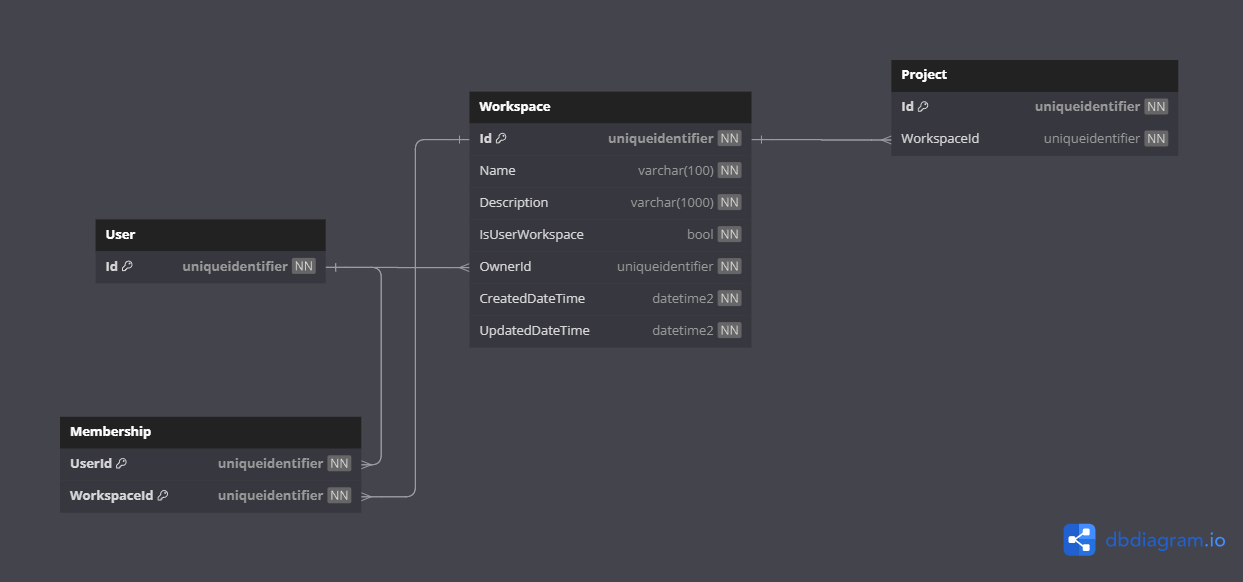
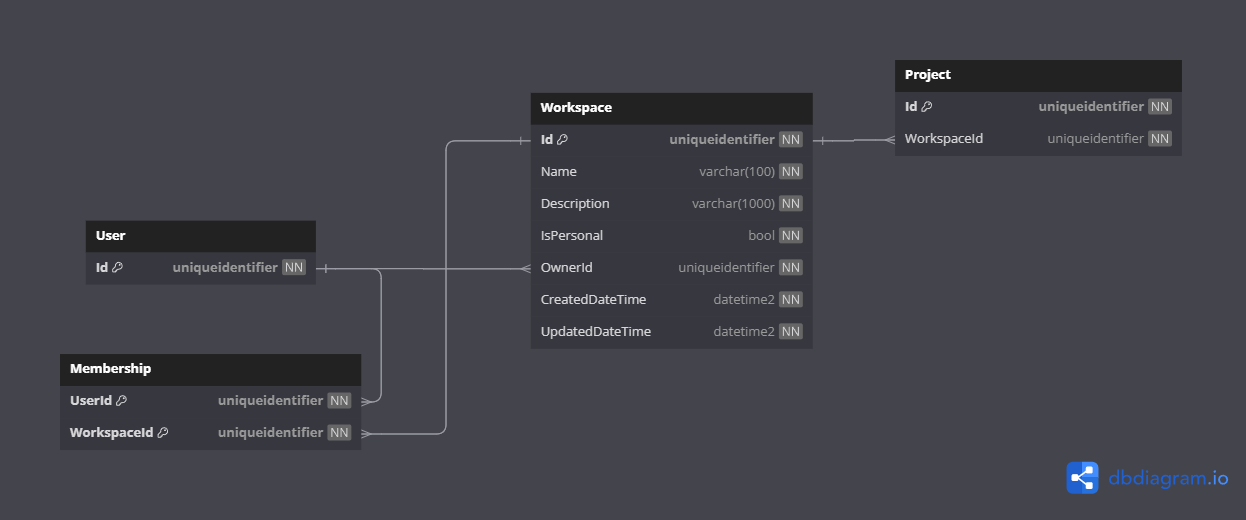
#39 Domain - Workspace Aggregate - Rename IsUserWorkspace ValueObject to IsPersonal

diff --git a/src/ConsiliumTempus.Domain/Workspace/WorkspaceAggregate.cs b/src/ConsiliumTempus.Domain/Workspace/WorkspaceAggregate.cs
@@ -20,14 +20,14 @@ public sealed class WorkspaceAggregate : AggregateRoot<WorkspaceId, Guid>
         Name name,
         Description description,
         UserAggregate owner,
-        IsUserWorkspace isUserWorkspace,
+        IsPersonal isPersonal,
         DateTime createdDateTime,
         DateTime updatedDateTime) : base(id)
     {
         Name = name;
         Description = description;
         Owner = owner;
-        IsUserWorkspace = isUserWorkspace;
+        IsPersonal = isPersonal;
         CreatedDateTime = createdDateTime;
         UpdatedDateTime = updatedDateTime;
     }
@@ -37,7 +37,7 @@ public sealed class WorkspaceAggregate : AggregateRoot<WorkspaceId, Guid>
 
     public Name Name { get; private set; } = default!;
     public Description Description { get; private set; } = default!;
-    public IsUserWorkspace IsUserWorkspace { get; private set; } = default!;
+    public IsPersonal IsPersonal { get; private set; } = default!;
     public UserAggregate Owner { get; private set; } = default!;
     public DateTime CreatedDateTime { get; private set; }
     public DateTime UpdatedDateTime { get; private set; }
@@ -48,14 +48,14 @@ public sealed class WorkspaceAggregate : AggregateRoot<WorkspaceId, Guid>
         Name name,
         Description description,
         UserAggregate owner,
-        IsUserWorkspace isUserWorkspace)
+        IsPersonal isPersonal)
     {
         var workspace = new WorkspaceAggregate(
             WorkspaceId.CreateUnique(),
             name,
             description,
             owner,
-            isUserWorkspace,
+            isPersonal,
             DateTime.UtcNow,
             DateTime.UtcNow);
 
@@ -84,9 +84,9 @@ public sealed class WorkspaceAggregate : AggregateRoot<WorkspaceId, Guid>
         Owner = owner;
     }
     
-    public void UpdateIsUserWorkspace(IsUserWorkspace isUserWorkspace)
+    public void UpdateIsPersonal(IsPersonal isPersonal)
     {
-        IsUserWorkspace = isUserWorkspace;
+        IsPersonal = isPersonal;
     }
 
 }

diff --git a/src/ConsiliumTempus.Infrastructure/Migrations/20240409191902_InitialCreate.Designer.cs b/src/ConsiliumTempus.Infrastructure/Migrations/20240409191902_InitialCreate.Designer.cs
@@ -12,7 +12,7 @@ using Microsoft.EntityFrameworkCore.Storage.ValueConversion;
 namespace ConsiliumTempus.Infrastructure.Migrations
 {
     [DbContext(typeof(ConsiliumTempusDbContext))]
-    [Migration("20240409130810_InitialCreate")]
+    [Migration("20240409191902_InitialCreate")]
     partial class InitialCreate
     {
         /// <inheritdoc />
@@ -985,14 +985,14 @@ namespace ConsiliumTempus.Infrastructure.Migrations
                         .OnDelete(DeleteBehavior.NoAction)
                         .IsRequired();
 
-                    b.OwnsOne("ConsiliumTempus.Domain.Workspace.ValueObjects.IsUserWorkspace", "IsUserWorkspace", b1 =>
+                    b.OwnsOne("ConsiliumTempus.Domain.Workspace.ValueObjects.IsPersonal", "IsPersonal", b1 =>
                         {
                             b1.Property<Guid>("WorkspaceAggregateId")
                                 .HasColumnType("uniqueidentifier");
 
                             b1.Property<bool>("Value")
                                 .HasColumnType("bit")
-                                .HasColumnName("IsUserWorkspace");
+                                .HasColumnName("IsPersonal");
 
                             b1.HasKey("WorkspaceAggregateId");
 
@@ -1043,7 +1043,7 @@ namespace ConsiliumTempus.Infrastructure.Migrations
                     b.Navigation("Description")
                         .IsRequired();
 
-                    b.Navigation("IsUserWorkspace")
+                    b.Navigation("IsPersonal")
                         .IsRequired();
 
                     b.Navigation("Name")

diff --git a/src/ConsiliumTempus.Infrastructure/Migrations/ConsiliumTempusDbContextModelSnapshot.cs b/src/ConsiliumTempus.Infrastructure/Migrations/ConsiliumTempusDbContextModelSnapshot.cs
@@ -982,14 +982,14 @@ namespace ConsiliumTempus.Infrastructure.Migrations
                         .OnDelete(DeleteBehavior.NoAction)
                         .IsRequired();
 
-                    b.OwnsOne("ConsiliumTempus.Domain.Workspace.ValueObjects.IsUserWorkspace", "IsUserWorkspace", b1 =>
+                    b.OwnsOne("ConsiliumTempus.Domain.Workspace.ValueObjects.IsPersonal", "IsPersonal", b1 =>
                         {
                             b1.Property<Guid>("WorkspaceAggregateId")
                                 .HasColumnType("uniqueidentifier");
 
                             b1.Property<bool>("Value")
                                 .HasColumnType("bit")
-                                .HasColumnName("IsUserWorkspace");
+                                .HasColumnName("IsPersonal");
 
                             b1.HasKey("WorkspaceAggregateId");
 
@@ -1040,7 +1040,7 @@ namespace ConsiliumTempus.Infrastructure.Migrations
                     b.Navigation("Description")
                         .IsRequired();
 
-                    b.Navigation("IsUserWorkspace")
+                    b.Navigation("IsPersonal")
                         .IsRequired();
 
                     b.Navigation("Name")

diff --git a/tests/Integration/ConsiliumTempus.Common.IntegrationTests/Workspace/WorkspaceFactory.cs b/tests/Integration/ConsiliumTempus.Common.IntegrationTests/Workspace/WorkspaceFactory.cs
@@ -12,7 +12,7 @@ public static class WorkspaceFactory
         UserAggregate owner,
         string name = Constants.Workspace.Name,
         string description = Constants.Workspace.Description,
-        bool isUserWorkspace = false,
+        bool isPersonal = false,
         DateTime? createdDateTime = null,
         DateTime? updatedDateTime = null)
     {
@@ -22,7 +22,7 @@ public static class WorkspaceFactory
         DomainFactory.SetProperty(ref workspace, nameof(workspace.Name), Name.Create(name));
         DomainFactory.SetProperty(ref workspace, nameof(workspace.Description), Description.Create(description));
         DomainFactory.SetProperty(ref workspace, nameof(workspace.Owner), owner);
-        DomainFactory.SetProperty(ref workspace, nameof(workspace.IsUserWorkspace), IsUserWorkspace.Create(isUserWorkspace));
+        DomainFactory.SetProperty(ref workspace, nameof(workspace.IsPersonal), IsPersonal.Create(isPersonal));
         DomainFactory.SetProperty(ref workspace, nameof(workspace.CreatedDateTime), createdDateTime ?? DateTime.UtcNow);
         DomainFactory.SetProperty(ref workspace, nameof(workspace.UpdatedDateTime), updatedDateTime ?? DateTime.UtcNow);
 

diff --git a/tests/Unit/ConsiliumTempus.Application.UnitTests/TestData/User/Events/UserDeletedHandlerData.cs b/tests/Unit/ConsiliumTempus.Application.UnitTests/TestData/User/Events/UserDeletedHandlerData.cs
@@ -22,14 +22,14 @@ internal static class UserDeletedHandlerData
             var workspaceWithMembers = WorkspaceFactory.Create(owner: user);
             workspaceWithMembers.AddUserMembership(MembershipFactory.Create());
             
-            var userWorkspaceWithMembers = WorkspaceFactory.Create(owner: user, isUserWorkspace: true);
+            var userWorkspaceWithMembers = WorkspaceFactory.Create(owner: user, isPersonal: true);
             userWorkspaceWithMembers.AddUserMembership(MembershipFactory.Create());
             
             var workspaces = new List<WorkspaceAggregate>
             {
                 WorkspaceFactory.Create(),
                 WorkspaceFactory.Create(owner: user),
-                WorkspaceFactory.Create(owner: user, isUserWorkspace: true),
+                WorkspaceFactory.Create(owner: user, isPersonal: true),
                 workspaceWithAdminMembers,
                 workspaceWithMembers,
                 userWorkspaceWithMembers

diff --git a/src/ConsiliumTempus.Infrastructure/Migrations/20240409191902_InitialCreate.cs b/src/ConsiliumTempus.Infrastructure/Migrations/20240409191902_InitialCreate.cs
@@ -88,7 +88,7 @@ namespace ConsiliumTempus.Infrastructure.Migrations
                     Id = table.Column<Guid>(type: "uniqueidentifier", nullable: false),
                     Name = table.Column<string>(type: "nvarchar(100)", maxLength: 100, nullable: false),
                     Description = table.Column<string>(type: "nvarchar(1000)", maxLength: 1000, nullable: false),
-                    IsUserWorkspace = table.Column<bool>(type: "bit", nullable: false),
+                    IsPersonal = table.Column<bool>(type: "bit", nullable: false),
                     OwnerId = table.Column<Guid>(type: "uniqueidentifier", nullable: false),
                     CreatedDateTime = table.Column<DateTime>(type: "datetime2", nullable: false),
                     UpdatedDateTime = table.Column<DateTime>(type: "datetime2", nullable: false)

diff --git a/src/ConsiliumTempus.Domain/Workspace/ValueObjects/IsPersonal.cs b/src/ConsiliumTempus.Domain/Workspace/ValueObjects/IsPersonal.cs
@@ -3,23 +3,23 @@ using ConsiliumTempus.Domain.Common.Models;
 
 namespace ConsiliumTempus.Domain.Workspace.ValueObjects;
 
-public class IsUserWorkspace : ValueObject
+public class IsPersonal : ValueObject
 {
     [SuppressMessage("ReSharper", "UnusedMember.Local")] // used by EF
-    private IsUserWorkspace()
+    private IsPersonal()
     {
     }
 
-    private IsUserWorkspace(bool value)
+    private IsPersonal(bool value)
     {
         Value = value;
     }
 
     public bool Value { get; }
 
-    public static IsUserWorkspace Create(bool value)
+    public static IsPersonal Create(bool value)
     {
-        return new IsUserWorkspace(value);
+        return new IsPersonal(value);
     }
 
     protected override IEnumerable<object> GetEqualityComponents()

diff --git a/tests/Integration/ConsiliumTempus.Api.IntegrationTests/TestUtils/Utils.User.cs b/tests/Integration/ConsiliumTempus.Api.IntegrationTests/TestUtils/Utils.User.cs
@@ -61,7 +61,7 @@ internal static partial class Utils
             user.Memberships[0].Workspace.Name.Value.Should().Be(Constants.Workspace.Name);
             user.Memberships[0].Workspace.Description.Value.Should().Be(Constants.Workspace.Description);
             user.Memberships[0].Workspace.Owner.Should().Be(user);
-            user.Memberships[0].Workspace.IsUserWorkspace.Value.Should().Be(true);
+            user.Memberships[0].Workspace.IsPersonal.Value.Should().Be(true);
             user.Memberships[0].Workspace.CreatedDateTime.Should().BeCloseTo(DateTime.UtcNow, TimeSpan.FromMinutes(1));
             user.Memberships[0].Workspace.UpdatedDateTime.Should().BeCloseTo(DateTime.UtcNow, TimeSpan.FromMinutes(1));
         }

diff --git a/tests/Unit/ConsiliumTempus.Common.UnitTests/Workspace/WorkspaceFactory.cs b/tests/Unit/ConsiliumTempus.Common.UnitTests/Workspace/WorkspaceFactory.cs
@@ -14,14 +14,14 @@ public static class WorkspaceFactory
         string name = Constants.Workspace.Name,
         string description = Constants.Workspace.Description,
         UserAggregate? owner = null,
-        bool isUserWorkspace = false)
+        bool isPersonal = false)
     {
         owner ??= UserFactory.Create();
         var workspace = WorkspaceAggregate.Create(
             Name.Create(name),
             Description.Create(description),
             owner,
-            IsUserWorkspace.Create(isUserWorkspace));
+            IsPersonal.Create(isPersonal));
         workspace.AddUserMembership(MembershipFactory.Create(owner, workspace));
         return workspace;
     }

diff --git a/tests/Unit/ConsiliumTempus.Application.UnitTests/TestUtils/Utils.Workspace.cs b/tests/Unit/ConsiliumTempus.Application.UnitTests/TestUtils/Utils.Workspace.cs
@@ -18,7 +18,7 @@ internal static partial class Utils
             workspace.Name.Value.Should().Be(command.Name);
             workspace.Description.Value.Should().Be(command.Description);
             workspace.Owner.Should().Be(user);
-            workspace.IsUserWorkspace.Value.Should().Be(false);
+            workspace.IsPersonal.Value.Should().Be(false);
             workspace.CreatedDateTime.Should().BeCloseTo(DateTime.UtcNow, TimeSpan.FromMinutes(1));
             workspace.UpdatedDateTime.Should().BeCloseTo(DateTime.UtcNow, TimeSpan.FromMinutes(1));
             workspace.Memberships.Should().HaveCount(1);

diff --git a/src/ConsiliumTempus.Application/User/Events/UserDeletedHandler.cs b/src/ConsiliumTempus.Application/User/Events/UserDeletedHandler.cs
@@ -29,7 +29,7 @@ public sealed class UserDeletedHandler(IWorkspaceRepository workspaceRepository)
                 var newOwner = newOwnerAdmin ?? workspace.Memberships.First(m => m.User != notification.User);
                 if (newOwnerAdmin is null) newOwner.UpdateWorkspaceRole(WorkspaceRole.Admin);
                 workspace.TransferOwnership(newOwner.User);
-                workspace.UpdateIsUserWorkspace(IsUserWorkspace.Create(false));
+                workspace.UpdateIsPersonal(IsPersonal.Create(false));
             }
         }
     }

diff --git a/tests/Integration/ConsiliumTempus.Api.IntegrationTests/TestUtils/Utils.Workspace.cs b/tests/Integration/ConsiliumTempus.Api.IntegrationTests/TestUtils/Utils.Workspace.cs
@@ -41,7 +41,7 @@ internal static partial class Utils
             workspace.Name.Value.Should().Be(request.Name);
             workspace.Description.Value.Should().Be(request.Description);
             workspace.Owner.Should().Be(user);
-            workspace.IsUserWorkspace.Value.Should().Be(false);
+            workspace.IsPersonal.Value.Should().Be(false);
             workspace.CreatedDateTime.Should().BeCloseTo(DateTime.UtcNow, 1.Minutes());
             workspace.UpdatedDateTime.Should().BeCloseTo(DateTime.UtcNow, 1.Minutes());
 
